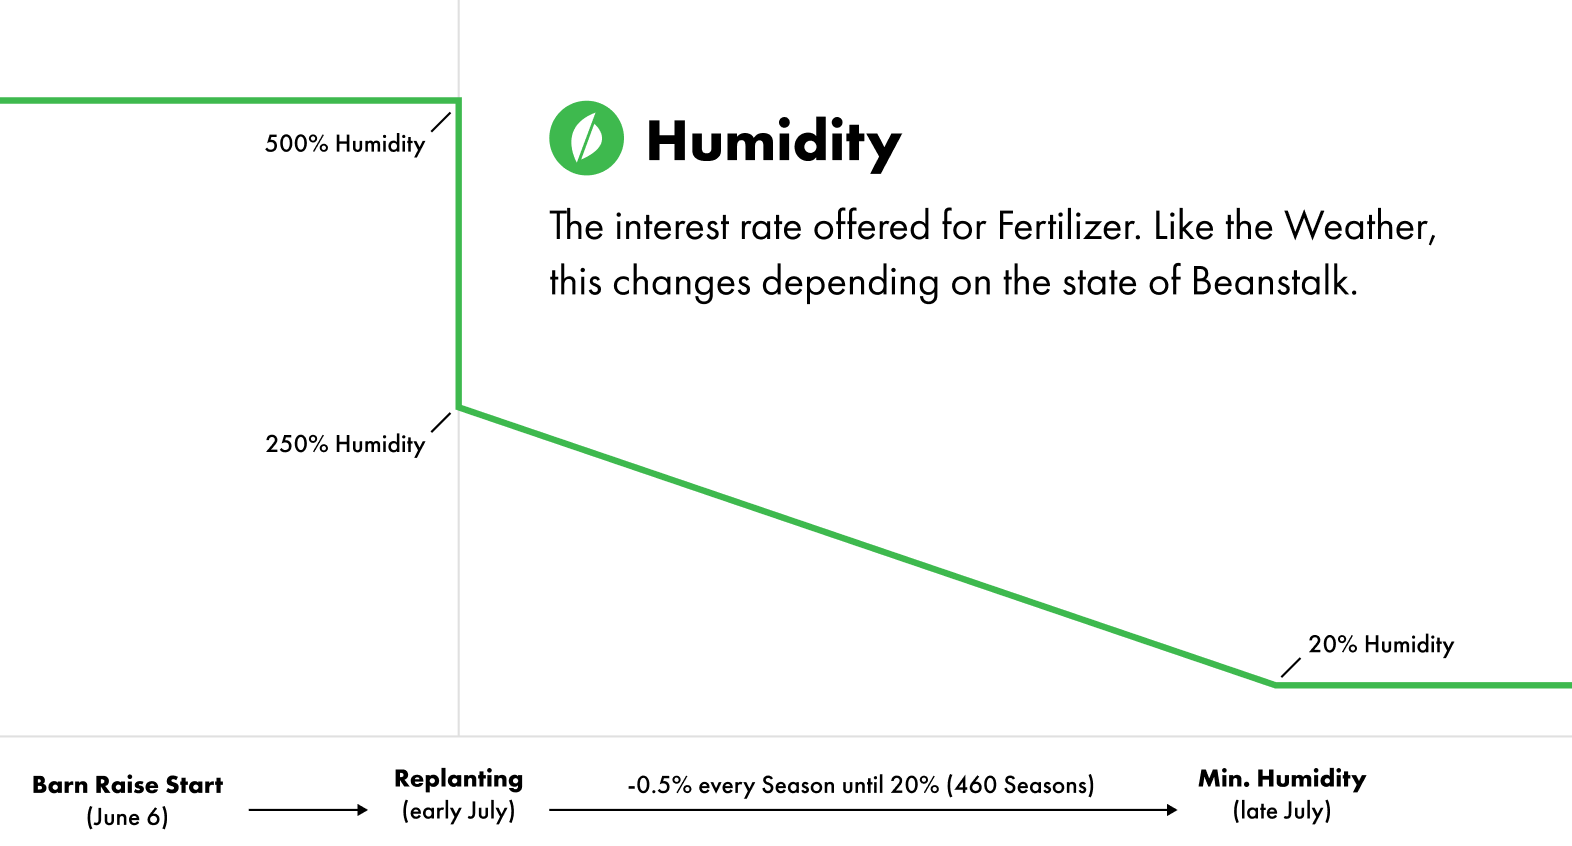
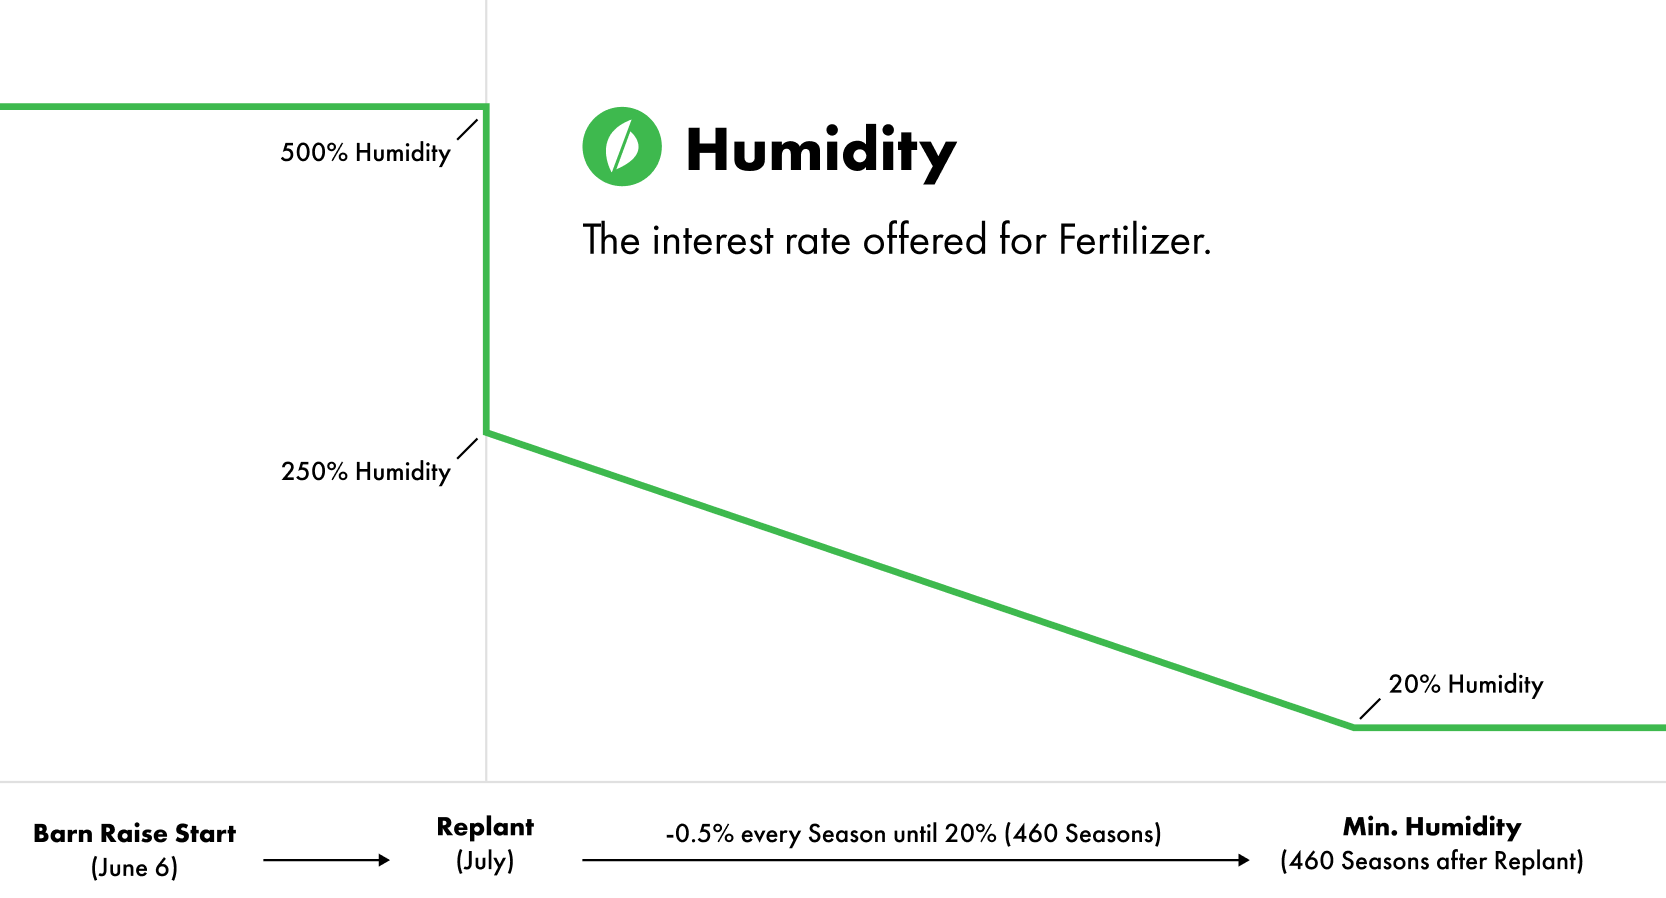
Update farmers guide

diff --git a/content/posts/a-farmers-guide-to-the-barn-raise.md b/content/posts/a-farmers-guide-to-the-barn-raise.md
@@ -8,9 +8,11 @@ date: 2022-05-29T06:00:00.000Z
 image: /assets/uploads/grayscale-barn.png
 ---
 
-In August 2021, Beanstalk was first planted by Publius. Beanstalk, while still early in its life, grew to produce over 100 million Beans over the first 6074 Seasons (~8.5 months). 
+**Last updated July 1st, 2022. A new guide with updated terminology per BFP-79 will be released soon**.
 
-On April 17, 2022, [Jack](https://etherscan.io/address/0x1c5dcdd006ea78a7e4783f9e6021c32935a10fb4) chopped down Beanstalk. The foundations are still there, but Beanstalk must be Fertilized in order to continue.
+On August 6, 2021, Beanstalk was first planted by Publius. Beanstalk, while still early in its life, grew to produce over 100 million Beans over the first 6074 Seasons (~8.5 months). 
+
+On April 17, 2022, [Jack](https://etherscan.io/address/0x1c5dcdd006ea78a7e4783f9e6021c32935a10fb4) chopped down Beanstalk. The foundations are still there, but Beanstalk must be Replanted in order to continue.
 
 <figure>
 <p align="center">
@@ -26,26 +28,26 @@ On April 17, 2022, [Jack](https://etherscan.io/address/0x1c5dcdd006ea78a7e4783f9
 
 # Overview
 
-In order to support the Fertilization, Beanstalk will host the Barn Raise — a fundraiser to restore $77M in non-Bean liquidity stolen from the Silo — **starting Monday, June 6 at 4:00pm UTC**.
+In order to support the Replant, Beanstalk will host the Barn Raise — a fundraiser to restore $77M in non-Bean liquidity stolen from the Silo — **starting Monday, June 6 at 4:00pm UTC**.
 
-Fertilizer, a semi-fungible token, will be sold during the Barn Raise. At the beginning of the Barn Raise, 77M Fertilizer will be for sale for 1 USDC each. The roots of Beanstalk will be Replanted in early July. After the Replanting, Fertilizer will receive a pro rata share of one-third of new Bean mints, while one-third is allocated to Silo Members and one-third is allocated to the Pod Line. Fertilizer sales will recapitalize non-Bean liquidity stolen in the attack.
+Fertilizer, a semi-fungible token, will be sold during the Barn Raise. At the beginning of the Barn Raise, 77M Fertilizer will be for sale for 1 USDC each. The roots of Beanstalk will be Replanted in July. After Replant, Fertilizer will receive a pro rata share of one-third of new Bean mints, while one-third is allocated to Silo Members and one-third is allocated to the Pod Line. Fertilizer sales will recapitalize non-Bean liquidity stolen in the attack.
 
 ### Vesting
 
-In order to align new capital with pre-exploit Farmers, all pre-exploit Beans and LP Tokens will become _Unripe Beans_ and _Unripe LP Tokens_ respectively upon the Replanting of Beanstalk. Unripe assets represent a pro rata share of the underlying assets minted as Fertilizer is sold and debt repaid to Fertilizer. _Ripening_ is the process of burning Unripe Beans in exchange for Beans, or burning Unripe LP Tokens in exchange for LP Tokens. Unripe assets are subject to a vesting schedule.
+In order to align new capital with pre-exploit Farmers, all pre-exploit Beans and LP Tokens will become _Unripe Beans_ and _Unripe LP_ respectively upon Replant. Unripe assets represent a pro rata share of the underlying assets minted as Fertilizer is sold and debt repaid to Fertilizer. _Ripening_ is the process of burning Unripe Beans in exchange for Beans, or burning Unripe LP in exchange for LP Tokens. Unripe assets are subject to a vesting schedule.
 
-Unripe assets can be Deposited, Withdrawn, Claimable, or Circulating (see Glossary for definitions). Only Circulating Unripe assets can be Ripened. Unripe assets will be distributed upon the Replanting in the same state in their pre-exploit state, with the exception of Withdrawn assets that will be distributed as Claimable (as if the Withdrawal timer had elapsed). Farmers who had Beans deposited in Pod Orders pre-exploit will receive Claimable Unripe Beans and their Orders will be Cancelled. Pod Listings will stay open by default and Farmers will have an opportunity to Cancel them before the Replant.
+Unripe assets can be Deposited, Withdrawn, Claimable, or Circulating (see Glossary for definitions). Only Circulating Unripe assets can be Ripened. Unripe assets will be distributed upon Replant in the same state in their pre-exploit state, with the exception of Withdrawn assets that will be distributed as Claimable (as if the Withdrawal timer had elapsed). Farmers who had Beans deposited in Pod Orders pre-exploit will receive Claimable Unripe Beans and their Orders will be Cancelled. Pod Listings will stay open by default and Farmers will have an opportunity to Cancel them before Replant.
 
-Stalk and Seeds will be distributed based on the percentage of Fertilizer sold at the time of the Replanting, and any remaining Stalk and Seeds balances will vest as more Fertilizer is sold. Pods stay the same as pre-exploit.
+Stalk and Seeds will be distributed based on the percentage of Fertilizer sold at the time of the Replant, and any remaining Stalk and Seeds balances will vest as more Fertilizer is sold. Pods stay the same as pre-exploit.
 
 
->As an example, if 20% of Fertilizer is sold before the Replanting, pre-exploit balances of:
+>As an example, if 20% of Fertilizer is sold before Replant, pre-exploit balances of:
 >
 >1000 Beans, 2000 BDV of LP Tokens, 4000 Stalk, 12000 Seeds, and 20000 Pods,
 >
 >would then become the following when Beanstalk is Replanted:
 >
->1000 _Unripe_ Beans, 2000 BDV of _Unripe_ LP Tokens, 800 Stalk, 2400 Seeds, and 20000 Pods.
+>1000 _Unripe_ Beans, 2000 _Unripe_ LP Tokens, 800 Stalk, 2400 Seeds, and 20000 Pods.
 
 Farmers can Ripen their Unripe assets based on the product of the two following values: the percentage of Fertilizer sold and the percentage of debt repaid to Fertilizer. 
 
@@ -53,19 +55,19 @@ Farmers can Ripen their Unripe assets based on the product of the two following 
 >
 >If the 100% of total Fertilizer has sold and 50% of the debt issued for Fertilizer has been repaid, then the penalty for Unripe Beans that are Ripened to Beans is _1 - (100% * 50%) = 50%_.
 >
->These examples work the same way for Unripe LP Tokens.
+>These examples work the same way for Unripe LP.
 
-The vesting for pre-exploit Stalk and Seeds is a bit different. Stalk and Seeds simply unlock based on the percentage of Fertilizer that has been sold. This makes the Silo a more attractive destination for new Silo Members early on after the Replanting. As Stalk and Seeds vest, they need to be manually Claimed to become active and start receiving Farmable Beans and Earned Stalk. 
+The vesting for pre-exploit Stalk and Seeds is a bit different. Stalk and Seeds simply unlock based on the percentage of Fertilizer that has been sold. This makes the Silo a more attractive destination for new Silo Members early on after Replant. As Stalk and Seeds vest, they need to be manually claimed to become active and start receiving Farmable Beans and Farmable Stalk. 
 
->As an example, if 20% of total Fertilizer has sold before the Replanting, Silo Members receive 20% of their Stalk and Seed balances at the time of the Replanting. Once 50% of total Fertilizer has sold, Silo Members can manually claim an additional 30%, bringing their total to 50% of their pre-exploit Stalk and Seed balances.
+>As an example, if 20% of total Fertilizer has sold before the Replant, Silo Members receive 20% of their Stalk and Seed balances at the time of the Replant. Once 50% of total Fertilizer has sold, Silo Members can manually claim an additional 30%, bringing their total to 50% of their pre-exploit Stalk and Seed balances.
 
-New Silo Deposits after the Replanting are not subject to any vesting schedule. Neither are Farmable Beans, Harvestable Pods, or Fertilized Beans (the Beans earned from Fertilizer).
+New Silo Deposits after Replant are not subject to any vesting schedule. Neither are Farmable Beans, Harvestable Pods, or Fertilized Beans (the Beans earned from Fertilizer).
 
 ### Forfeited Assets
 
-As mentioned above, Unripe assets that are Ripened before all Fertilizer is sold and all Fertilizer is paid back are subject to a penalty and forfeited. In some cases, the forfeiture of Unripe assets will reduce the amount of Fertilizer for sale, and in others it makes the remaining Unripe assets become more Ripe. 
+As mentioned above, Unripe assets that are Ripened before all Fertilizer is sold and all Fertilizer is paid back are subject to a penalty and forfeited. In some cases, the forfeiture of Unripe assets will reduce the amount of Fertilizer for sale, and in others it makes the remaining Unripe assets vest earlier. 
 
->As an example, if there’s 50M Fertilizer still available for sale from Beanstalk, and someone with 2M BDV of Unripe LP Tokens forfeits with a 50% penalty (getting 1M BDV of LP Tokens and forfeiting a claim to 1M BDV of LP Tokens in the process), only 49.5M more Fertilizer has to be sold. This is because 1M BDV is forfeited, and half of that value is non-Bean liquidity, so 500k less Fertilizer needs to be sold.
+>As an example, if there’s 50M Fertilizer still available for sale from Beanstalk, and someone with 2M BDV of Unripe LP forfeits with a 50% penalty (getting 1M BDV of LP Tokens and forfeiting a claim to 1M BDV of LP Tokens in the process), only 49.5M more Fertilizer has to be sold. This is because 1M BDV is forfeited, and half of that value is non-Bean liquidity, so 500k less Fertilizer needs to be sold.
 >
 >The above only plays out if LP Tokens are forfeited, because it’s the liquidity that is being recapitalized by Fertilizer sales. If someone forfeits Beans, that just makes the Unripe Beans vest earlier.
 
@@ -81,7 +83,7 @@ The interest rate on Fertilizer is called Humidity.
 
 >As an example, 1000 Fertilizer purchased at 500% Humidity with 1000 USDC would stop earning Beans after 6000 Beans.
 
-Fertilizer purchased before the Replanting in early July will have a 500% Humidity, and the Humidity will change upon the Replanting. After the Replanting, the Humidity will start at 250% and decrease by 0.5% every Season until the Humidity is 20%. It will take about 19 days after the Replanting to hit the minimum Humidity of 20%.
+Fertilizer purchased before Replant will have a 500% Humidity, and the Humidity will change upon Replant. After the Replant, the Humidity will start at 250% and decrease by 0.5% every Season until the Humidity is 20%. It will take about 19 days after the Replanting to hit the minimum Humidity of 20%.
 
 ![Humidity Visualization](/assets/uploads/humidity.png)
 
@@ -105,7 +107,7 @@ The vesting schedule tied to the product of Fertilizer sold and Fertilizer paid 
 
 Fertilizer will be ERC-1155 tokens with the Season of purchase as the unique identifier.
 
-In order to commemorate early participation in the Barn Raise, separate ERC-721 NFTs with distinct artwork will be available for mint for Farmers who purchase Fertilizer before the Replanting (between June 6 and early July—the exact date of the Replanting will be voted on by the Beanstalk DAO).
+In order to commemorate early participation in the Barn Raise, separate ERC-721 NFTs with distinct artwork will be available for mint for Farmers who purchase Fertilizer before the Replant (between June 6 and late July—the exact date of the Replanting will be voted on by the Beanstalk DAO).
 
 The minimum participation size for getting an NFT is 1000 USDC, and these NFTs are limited to the first 10,000 transactions of at least that minimum.
 
@@ -118,17 +120,17 @@ This Barn Raise structure:
 * Makes pre-exploit Farmers whole over time; and
 * Lowers the amount of capital needed to make pre-exploit Farmers whole in certain instances.
 
-If Beanstalk is Replanted before Fertilizer sells out and Silo Members Convert from Unripe LP Tokens to Unripe Beans when P < 1, then the amount of recapitalized liquidity required to make everyone whole decreases (because the liquidity is decreasing). 
+If Beanstalk is Replanted before Fertilizer sells out and Silo Members Convert from Unripe LP to Unripe Beans when P < 1, then the amount of recapitalized liquidity required to make everyone whole decreases (because the liquidity is decreasing). 
 
-Vice versa, if Beanstalk is Replanted before Fertilizer sells out and Silo Members Convert from Unripe Beans to Unripe LP Tokens when P > 1, then the amount of recapitalized liquidity required to make everyone whole increases (because the liquidity is increasing). This is acceptable as this scenario only plays out when P > 1 (a good problem to have). The ceiling on the amount of Fertilizer for sale would be about half the Unripe LP Tokens if all Unripe Beans were Converted.
+Vice versa, if Beanstalk is Replanted before Fertilizer sells out and Silo Members Convert from Unripe Beans to Unripe LP when P > 1, then the amount of recapitalized liquidity required to make everyone whole increases (because the liquidity is increasing). This is acceptable as this scenario only plays out when P > 1 (a good problem to have). The ceiling on the amount of Fertilizer for sale would be about half the Unripe LP if all Unripe Beans were Converted.
 
->As an example, if someone has 100 Unripe LP Tokens, and 0% of it has vested, there are no underlying assets to Ripen (the penalty for Ripening would be 100%). If someone has 100 Unripe LP Tokens, and 20% of it has vested, then they would have the option to Ripen their 100 Unripe LP Tokens and get 20 LP Tokens in exchange (forfeiting their claim to the rest of the LP Tokens in the process). 
+>As an example, if someone has 100 Unripe LP, and 0% of it has vested, there are no underlying assets to Ripen (the penalty for Ripening would be 100%). If someone has 100 Unripe LP, and 20% of it has vested, then they would have the option to Ripen their 100 Unripe LP and get 20 LP Tokens in exchange (forfeiting their claim to the rest of the LP Tokens in the process). 
 >
->If P < 1, they would also have the option to Convert their Unripe LP Tokens to Unripe Beans. Assuming the delta in the liquidity pool is 20 Beans below peg, then they can take their 100 Unripe LP Tokens and Convert all of it into 100 Unripe Beans, and the price will return to 1. This is because in reality, only 20 LP Tokens was converted to 20 Beans.
+>If P < 1, they would also have the option to Convert their Unripe LP to Unripe Beans. Assuming the delta in the liquidity pool is 20 Beans below peg, then they can take their 100 Unripe LP and Convert all of it into 100 Unripe Beans, and the price will return to 1. This is because in reality, only 20 LP Tokens was converted to 20 Beans.
 
 Because there are only approximately 30M Beans, this imposes an upper bound on Fertilizer of ~92 million. 
 
-The forfeiture of Unripe LP Tokens during the vesting schedule also reduces the amount of liquidity that needs to be raised, and thus the amount of Fertilizer for sale. 
+The forfeiture of Unripe LP during the vesting schedule also reduces the amount of liquidity that needs to be raised, and thus the amount of Fertilizer for sale. 
 
 This Barn Raise structure doubles down on the core economic mechanism that got Beanstalk to this point. It is up to the market to decide if Beanstalk deserves to exist—and these difficult endogenous circumstances give Beanstalk the opportunity to prove itself even more in the midst of exogenous market turmoil.
 
@@ -145,7 +147,7 @@ Let’s say someone buys 100 Fertilizer for 100 USDC, and this is the only Ferti
 Part 1—When recapitalizing pre-exploit LP Tokens, Beanstalk:
 1. mints the number of Beans required to add liquidity to the liquidity pool at the pre-exploit Bean price (for the sake of simplicity, with 100 USDC, let’s say Beanstalk mints 85 Beans because the pre-exploit price was >1);
 2. adds 100 USDC and 85 Beans as liquidity in the Curve pool for X LP Tokens; and
-3. adds X LP Tokens to the underlying pool for Unripe LP Tokens.
+3. adds X LP Tokens to the underlying pool for Unripe LP.
 
 Part 2—When recapitalizing pre-exploit Beans, Beanstalk:
 1. mints Beans according to the ratio of Deposited Beans lost in the exploit and the total capital required to recapitalize all assets (for the sake of simplicity, with 100 USDC, let’s say Beanstalk mints 40 Beans); and
@@ -159,7 +161,7 @@ Let’s say there is a delta surplus of 300 Beans in the liquidity pool at the e
 
 **Unripe Beans**: An ERC-20 token that entitles pre-exploit Bean holders to a pool of vesting Beans. These vesting Beans are minted as debt to Fertilizer holders is repaid.
 
-**Unripe LP Tokens**: Same as Unripe Beans but for LP Tokens.
+**Unripe LP**: Same as Unripe Beans but for LP Tokens.
 
 **Deposited** asset: Beans or LP Tokens that are Deposited in the Silo.
 

diff --git a/content/posts/path-forward.md b/content/posts/path-forward.md
@@ -9,7 +9,7 @@ image: /assets/uploads/barn-raising.png
 layout: farm
 ---
 
-**Last updated June 28th, 2022**.
+**Last updated July 1st, 2022**.
 
 Beanstalk is a decentralized and transparent solution to DeFi's endemic stablecoin supply shortage. It was designed from first principles to be a paradigm-shifting DeFi primitive that makes decentralized, cost-efficient stablecoins available to anyone with an internet connection.
 
@@ -91,7 +91,7 @@ June 2022
 July 2022
 - Halborn and Trail of Bits audits complete
 - Audits reports published
-- Unpause Beanstalk (exact date to be voted on by the Beanstalk DAO)
+- Replant Beanstalk (exact date to be voted on by the Beanstalk DAO)
 
 
 ![Bean Logo](/assets/uploads/bean-logo-128.png)
@@ -100,7 +100,7 @@ July 2022
 
 Beanstalk has always been an experiment. Contributors recognize a need within DeFi for a capital-efficient, decentralized stablecoin and set out to build it together. Beanstalk's innovative credit facility and incentive mechanisms are responsible for the protocol's growth to $100M in market cap in just eight months.
 
-Unlike every other decentralized credit based stablecoin in history, Beanstalk's economic model has not failed. The Beanstalk Farms team is committed to carrying the torch for Beanstalk's mission in lockstep with the Beanstalk community. We believe that Unpausing Beanstalk after a successful fundraise is the best path to achieve that goal.
+Unlike every other decentralized credit based stablecoin in history, Beanstalk's economic model has not failed. The Beanstalk Farms team is committed to carrying the torch for Beanstalk's mission in lockstep with the Beanstalk community. We believe that Replanting Beanstalk after a successful fundraise is the best path to achieve that goal.
 
 > The Snapshot proposal of this plan was approved by Silo Members [here](https://snapshot.org/#/beanstalkfarms.eth/proposal/0xb87854d7f6f40f0877a1333028eab829b213fbcce03f16f9dd3832c8a98ab99b).
 > 
